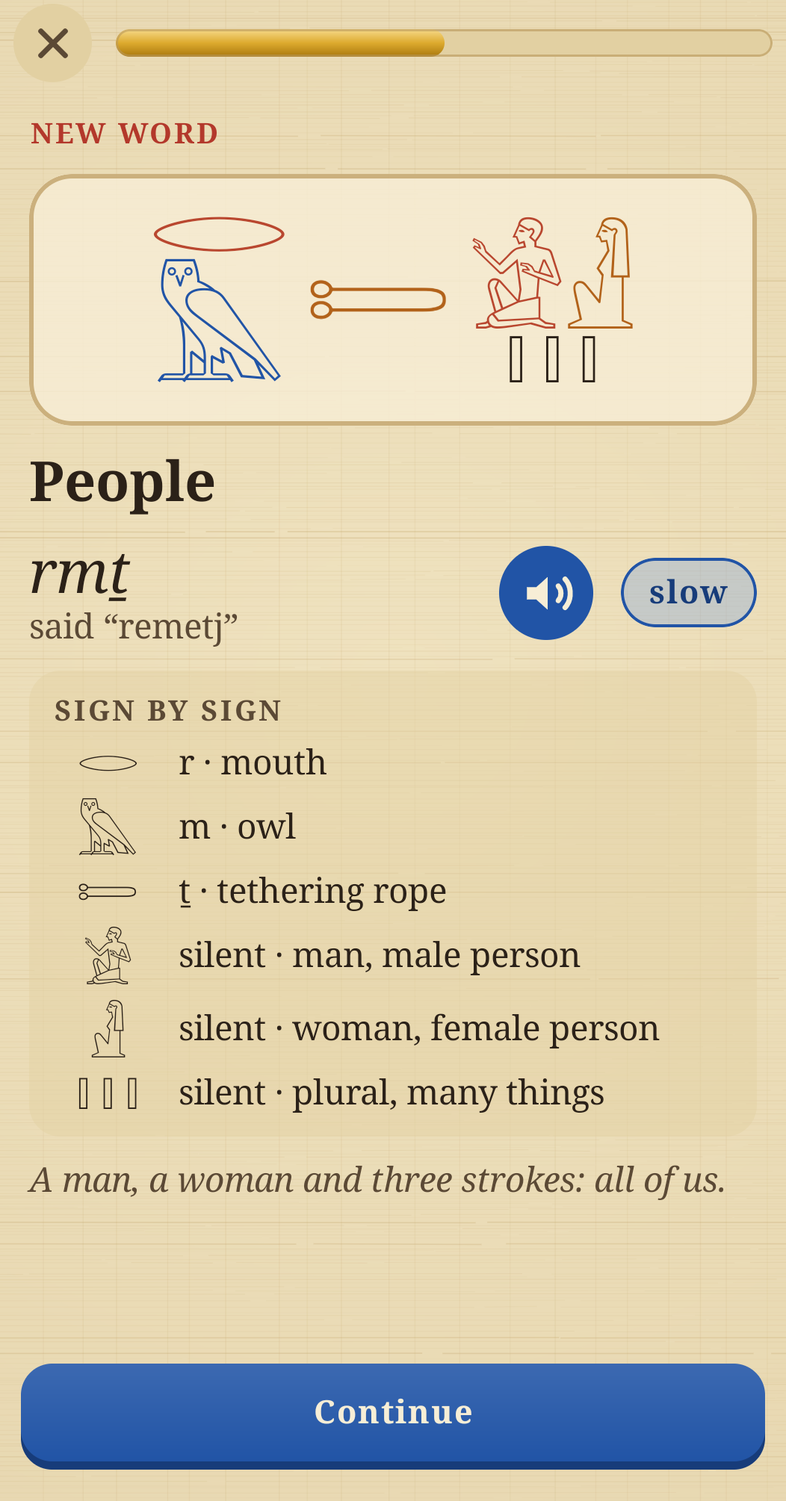
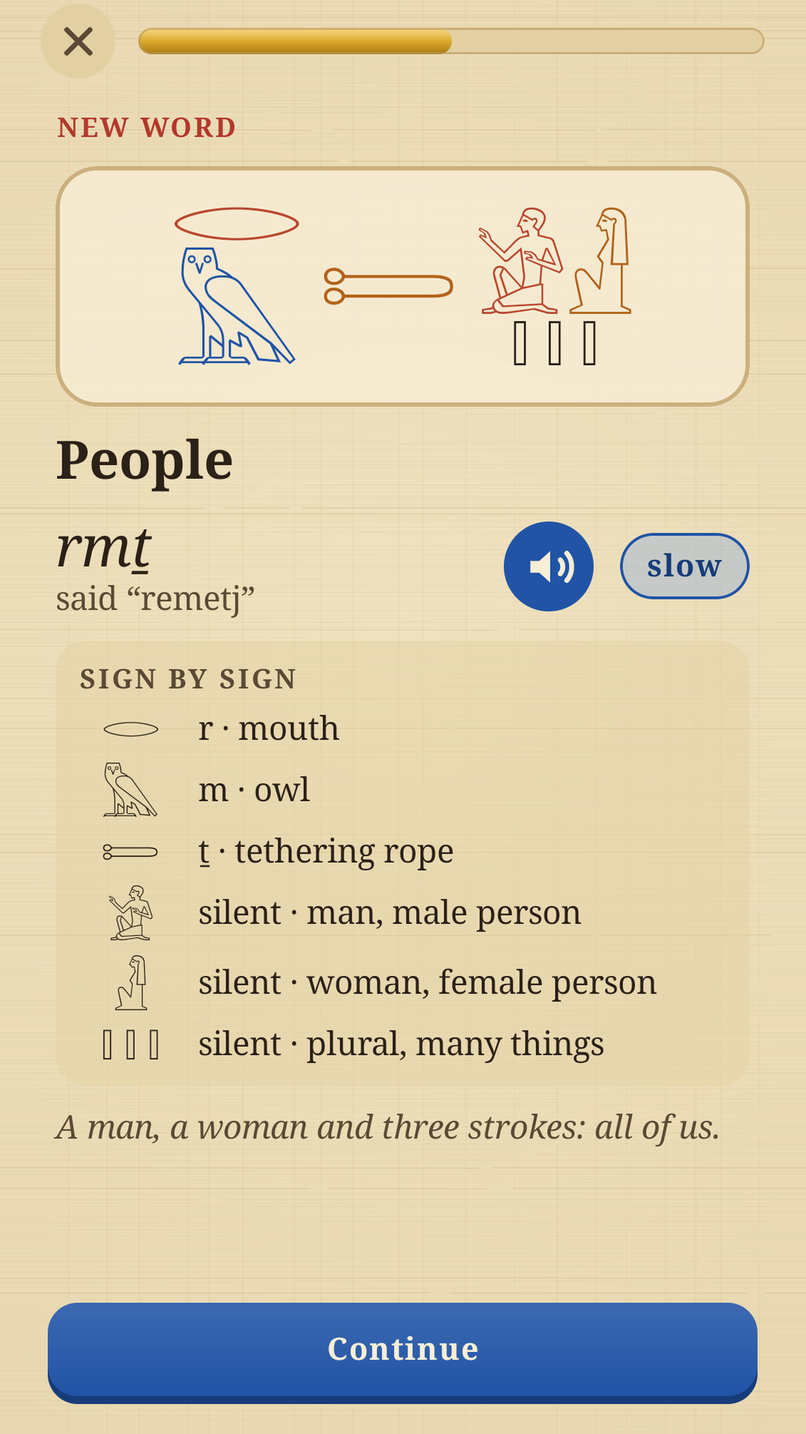
Prepare 0.3.1, the first Google Play build: play and github flavours
The Play build's About page links to Per Ankh on Google Play and never
looks for releases on GitHub, which Play's Device and Network Abuse
policy does not allow; the GitHub build is unchanged. Version 0.3.1, so
Play can deliver the first Play build as an update over GitHub's 0.3.0,
which also proves the signing key.

The privacy policy, and the hosted page's source, say only the GitHub
version asks about new releases. Store screenshots are 1080x1920
without alpha and the icon a 32-bit PNG, as Play asks. DEVELOPING.md
and RELEASING.md have the flavoured build commands and the signing
decision (the release key through Play App Signing); docs/play has a
first-upload walkthrough for LOVI Tech's account.

diff --git a/server/static/privacy.html b/server/static/privacy.html
@@ -16,10 +16,10 @@
 <body>
 <main>
 <h1>Per Ankh privacy policy</h1>
-<p class="meta">Effective 22 October 2026. Per Ankh is published by LOVI Tech.</p>
+<p class="meta">Effective 23 October 2026. Per Ankh is published by LOVI Tech.</p>
 
 <h2>In short</h2>
-<p>Per Ankh works offline and collects nothing about you. Only two things ever go over the internet: a problem report that you write yourself and choose to send, and, when you open About in the settings, a question about which version of Per Ankh is the newest. Neither carries your name, email address, account or device identifier.</p>
+<p>Per Ankh works offline and collects nothing about you. Only two things ever go over the internet: a problem report that you write yourself and choose to send, and, in the version from GitHub, when you open About in the settings, a question about which version of Per Ankh is the newest. Neither carries your name, email address, account or device identifier.</p>
 
 <h2>What stays on your phone</h2>
 <p>Your progress (what you have learned, your reviews, awards) and your settings are stored only on your phone. If Android's backup is on, Android may copy them to your own Google account, under Google's terms; we never receive that copy. Deleting the app deletes the data.</p>
@@ -39,7 +39,7 @@
 <p>A report is kept while the problem is open, and deleted within 12 months of being closed. Because reports are anonymous we cannot find “your” reports; if you want one deleted, tell us roughly when you sent it and what it said, and we will remove it.</p>
 
 <h2>Checking for a new version</h2>
-<p>From version 0.3.0, the About page in the settings shows whether a newer version of Per Ankh is out. To find out, the app asks GitHub (github.com, a Microsoft service, where Per Ankh’s releases are published) for the newest release; if GitHub cannot be reached, it asks our server at perankh.hrana.app, which answers from its own copy of GitHub’s answer. The app asks only when you open About, and not again until it is restarted once it has an answer. The question carries the app’s name and version and nothing else.</p>
+<p>In Per Ankh from GitHub (version 0.3.0 and later), the About page in the settings shows whether a newer version is out. To find out, the app asks GitHub (github.com, a Microsoft service, where Per Ankh’s releases are published) for the newest release; if GitHub cannot be reached, it asks our server at perankh.hrana.app, which answers from its own copy of GitHub’s answer. The app asks only when you open About, and not again until it is restarted once it has an answer. The question carries the app’s name and version and nothing else. Per Ankh from Google Play does not ask: Google Play keeps it up to date.</p>
 <p>Like any connection, it shows the server your phone’s network address. GitHub handles that under the <a href="https://docs.github.com/en/site-policy/privacy-policies/github-general-privacy-statement">GitHub General Privacy Statement</a>. Our server treats it as it does for reports: no access log, the address held in memory only to limit how often the server can be asked, and error logs kept for up to 14 days.</p>
 
 <h2>Children</h2>

diff --git a/app/src/main/java/com/krbavcic/pentalingo/SettingsSheet.kt b/app/src/main/java/com/krbavcic/pentalingo/SettingsSheet.kt
@@ -89,6 +89,11 @@ class AboutOptions(
     val latestUrl: String,
     val projectUrl: String,
     val privacyUrl: String,
+    /**
+     * The app's page on Google Play, in the build from Google Play, which Play keeps up to date; null
+     * in the build from GitHub, which looks up the newest release itself.
+     */
+    val storeUrl: String?,
 )
 
 private enum class Page(val label: String) { SETTINGS("Settings"), TESTING("Testing"), ABOUT("About") }
@@ -242,9 +247,12 @@ private fun TestingPage(settings: Settings, reports: ReportOptions, tester: Test
 
 @Composable
 private fun AboutPage(about: AboutOptions) {
-    // Each time the page opens without an answer, ask again.
+    val store = about.storeUrl
+    // Each time the page opens without an answer, ask again. A build from Google Play never asks.
     LaunchedEffect(Unit) {
-        if (about.latest is LatestRelease.NotChecked || about.latest is LatestRelease.Unreachable) about.onCheck()
+        if (store == null && (about.latest is LatestRelease.NotChecked || about.latest is LatestRelease.Unreachable)) {
+            about.onCheck()
+        }
     }
     Row(verticalAlignment = Alignment.CenterVertically) {
         // pr-ꜥnḫ, "House of Life": the house and the ankh.
@@ -254,7 +262,12 @@ private fun AboutPage(about: AboutOptions) {
             Text("Version ${about.build}", style = Type.small)
         }
     }
-    NewestRelease(about)
+    if (store != null) {
+        Text("Google Play keeps Per Ankh up to date.", style = Type.body)
+        Link("Per Ankh on Google Play") { about.onOpen(store) }
+    } else {
+        NewestRelease(about)
+    }
 
     Rubric("About the voice")
     Text(
@@ -282,12 +295,16 @@ private fun AboutPage(about: AboutOptions) {
     )
 
     Rubric("Privacy")
+    // Only the build from GitHub asks for the newest release.
+    val releaseQuestion = if (store != null) "" else {
+        " To see whether a newer version is out, this page asks GitHub, or our own server if GitHub " +
+            "cannot be reached; the question carries only the app’s version."
+    }
     Text(
         "Per Ankh works offline and collects nothing about you; your progress stays on this phone. " +
             "If you report a problem with the flag on a page, the report goes to the people who make " +
             "Per Ankh over an encrypted connection, with what was on screen. No name, account or " +
-            "device ID is sent. To see whether a newer version is out, this page asks GitHub, or our " +
-            "own server if GitHub cannot be reached; the question carries only the app’s version.",
+            "device ID is sent.$releaseQuestion",
         style = Type.small,
     )
     Link("Read the privacy policy") { about.onOpen(about.privacyUrl) }

diff --git a/app/src/main/java/com/krbavcic/pentalingo/AppHost.kt b/app/src/main/java/com/krbavcic/pentalingo/AppHost.kt
@@ -456,6 +456,7 @@ fun AppHost() {
                             latestUrl = "${BuildConfig.PROJECT_URL}/releases/latest",
                             projectUrl = BuildConfig.PROJECT_URL,
                             privacyUrl = BuildConfig.PRIVACY_URL,
+                            storeUrl = BuildConfig.STORE_URL,
                         ),
                     )
                     is Overlay.Message -> MessageSheet(current.text)

diff --git a/RELEASING.md b/RELEASING.md
@@ -18,13 +18,17 @@ Pre-release builds are `vX.Y.Z-beta.N` tags whose GitHub releases are marked "pr
 
 | Channel | Who | Build | When |
 |---|---|---|---|
-| Debug on the test phone | Igor | `gradlew :app:installDebug`, tester mode on | Every change |
-| Play **internal testing** | Up to 100 named testers | AAB, `gradlew :app:bundleRelease` | Each beta, minutes after upload |
+| Debug on the test phone | Igor | `gradlew :app:installGithubDebug`, tester mode on | Every change |
+| Play **internal testing** | Up to 100 named testers | AAB, `gradlew :app:bundlePlayRelease` | Each beta, minutes after upload |
 | Play **closed testing** | A tester group or list | Same AAB, promoted | Before each public release |
 | GitHub **pre-release** | Anyone, labelled not ready | Signed APK | Beta tags |
-| GitHub **release** | Everyone | Signed APK | From 0.2.0 |
+| GitHub **release** | Everyone | Signed APK, `gradlew :app:assembleGithubRelease` | From 0.2.0 |
 | Play **production** (staged 10% → 50% → 100%) | Everyone | AAB | From 1.0.0 |
 | F-Droid | Everyone, from source | Built by F-Droid | After 1.0, if wanted |
+
+Play gets the `play` flavour and GitHub the `github` one (DEVELOPING.md). They share the app id and
+the release key (Play's copy through Play App Signing), so a Play install and a GitHub install can
+update each other and keep progress.
 
 ## Plan
 
@@ -35,6 +39,8 @@ Pre-release builds are `vX.Y.Z-beta.N` tags whose GitHub releases are marked "pr
   (different key and id), which deletes their progress.
 - **0.3.0, GitHub release (2026-10-22).** Sections, units 13–14, the fixes from the first problem
   reports, and Settings → About, which from now on tells people when a newer release is out.
+- **0.3.1, the first Google Play build.** The `play` flavour, uploaded to internal testing under
+  LOVI Tech's Play developer account (created October 2026). The GitHub build is unchanged.
 - **0.3.x, closed testing.** Fix what testers report; re-record the three weak clips; finish the
   store listing. Two weeks in closed testing before production (a must for new *personal* Play
   accounts, which need 12 testers for 14 days; good practice for an organisation account too).
@@ -45,19 +51,23 @@ Pre-release builds are `vX.Y.Z-beta.N` tags whose GitHub releases are marked "pr
 
 ## Before the Play launch
 
-1. **Play developer account for LOVI Tech.** An organisation account needs a D-U-N-S number for
-   LOVI Tech, and verification takes days to weeks; start early.
+1. **Play developer account for LOVI Tech.** Created in October 2026, as an organisation
+   account: it needs LOVI Tech's D-U-N-S number, and must finish verification before it can
+   publish.
 2. **Android developer verification.** Since 30 September 2026, Android in Brazil, Indonesia,
    Singapore and Thailand installs apps only from verified developers, even outside Play, and this
-   goes worldwide in 2027. Register LOVI Tech in the Android Developer Console with the package
-   name `app.hrana.perankh` and the release key's certificate, or GitHub APKs will stop installing
-   for those users.
-3. **Signing.** Decide once, before the first Play upload:
-   - Let Play generate the app signing key (simplest), and Play installs and GitHub installs carry
-     different signatures: a user cannot move between them without reinstalling.
-   - Or upload the project's own release key to Play App Signing ("export and upload a key from a
-     Java keystore"), and keep a separate upload key: the same signature everywhere. Recommended,
-     since GitHub (and maybe F-Droid) builds are planned.
+   goes worldwide in 2027. Creating the app in Play Console registers `app.hrana.perankh` to LOVI
+   Tech's account, and Play App Signing with the release key (3.) proves the key. Then check on the
+   Play Console home page that the package is registered with the release key's certificate, which
+   is what keeps GitHub APKs installing for those users; Play Console also registers apps
+   distributed outside Play.
+3. **Signing.** Decided: the project's own release key, the same signature everywhere. New apps
+   get a Google-generated key by default, so before the first upload open Play app signing ("Test
+   and release" or "Protected with Play", depending on the Console's layout), choose *Change the
+   app signing key* and *Provide a copy of your app signing key*, and follow the PEPK steps shown
+   there with `~/.android/per-ankh-release.jks`, alias `per-ankh`. The bundle is signed with the
+   same key, which then also serves as the upload key. Never use *Upgrade key*: Android 13 and
+   later would then refuse GitHub APKs as updates of Play installs.
    The release key's certificate reads `CN=Igor Krbavcic`. It was kept for the first public
    release, 0.2.0, so it is now fixed: every later release, on GitHub and, through Play App
    Signing, on Play, must be signed with it, or installs cannot update.
@@ -73,18 +83,20 @@ Google made AnkiDroid remove its donation links from its Play build for exactly 
 - **Play build**: no external donation link. Either nothing, or "tips" as Play Billing in-app
   products (Google keeps 15%).
 
-That needs two product flavors (`play`, `github`), differing only there and in the About page's
-check for a newer version, which links to GitHub releases: Play does not allow an app to offer
-updates from elsewhere, so the `play` flavour hides it or links to the Play listing. Add the
-flavours with the donation feature, or before the first Play upload, whichever comes first.
+The two product flavours exist since 0.3.1, for the About page's check for a newer version: Play
+does not allow an app to offer updates from elsewhere, so the `play` flavour links to the Play
+listing instead. The donation link goes into the `github` flavour only.
 
 ## Release checklist
 
 1. `gradlew :core-script:test :core-engine:test :content:test :data:testDebugUnitTest` and `cd server && python -m unittest discover -s tests` pass.
 2. Set `appVersion`; add the CHANGELOG entry.
-3. Build: `gradlew :app:bundleRelease :app:assembleRelease`.
-4. Check the APK: `apksigner verify --print-certs` shows the release certificate, never
-   `CN=Android Debug`; `aapt2 dump badging` shows `targetSdkVersion:'36'` and the version.
+3. Build: `gradlew :app:bundlePlayRelease :app:assembleGithubRelease`. The bundle is
+   `app/build/outputs/bundle/playRelease/app-play-release.aab`, the APK
+   `app/build/outputs/apk/github/release/app-github-release.apk`.
+4. Check them: `apksigner verify --print-certs` on the APK and `keytool -printcert -jarfile` on the
+   bundle show the release certificate, never `CN=Android Debug`; `aapt2 dump badging` shows
+   `targetSdkVersion:'36'` and the version.
 5. Install on the test phone over the previous release (progress must survive); play a lesson,
    send a test report, then resolve it with `tools/reports.sh`.
 6. Upload the AAB to the Play track; tag `vX.Y.Z`; create the GitHub release with the APK and

diff --git a/docs/play/README.md b/docs/play/README.md
@@ -2,6 +2,52 @@
 
 Everything the Play Console asks for, ready to paste. Graphics are in this folder.
 
+## First upload, step by step
+
+Per Ankh is published from LOVI Tech's organisation account, created in October 2026. An
+organisation account does not need the 12 testers for 14 days that new personal accounts need
+before production.
+
+1. **Finish the account.** Play Console → Settings → Developer account: verify the contact and
+   developer email and phone with their codes, and complete identity and organisation
+   verification (D-U-N-S number, organisation website). Play shows an organisation's legal name,
+   address, developer email and developer phone on the store, so give a business phone number.
+2. **Create the app.** Home → *Create app*: the name below, default language, *App*, *Free*. If it
+   asks for the package name, it is `app.hrana.perankh`; creating the app registers that name to
+   LOVI Tech for Android developer verification.
+3. **Signing, before the first upload.** New apps get a Google-generated key unless this is
+   changed first. Open Play app signing (under *Test and release* → *App integrity*, or *Protected
+   with Play* → *Play Store distribution*), choose *Change the app signing key* → *Provide a copy
+   of your app signing key*, download the PEPK tool and encryption key that page offers, and run
+   the command it shows with the release keystore (`~/.android/per-ankh-release.jks`, the path
+   written out in full) and `--alias=per-ankh`; it asks for the keystore password. Upload the zip
+   it writes, then delete the zip. A separate upload key is optional; without one, the release key also signs uploads, which
+   is what the build does. The page must then show the app signing key certificate SHA-256
+   `F7:BA:04:DE:0F:40:EE:4A:C6:23:E0:C6:1E:CE:A7:CC:CB:F8:77:04:48:17:CB:13:43:94:45:AA:E9:D9:57:73`,
+   the same as the GitHub APKs. Never use *Upgrade key* (RELEASING.md, "Before the Play launch").
+4. **Store listing.** *Grow users* → *Store presence* → *Main store listing* and *Store settings*:
+   texts from "App details", graphics from "Graphics".
+5. **App content.** *Policy and programs* → *App content*: privacy policy, app access (everything
+   reachable without an account), ads (none), content rating, target audience, data safety,
+   advertising ID (not used), government, financial, health and news declarations, all from the
+   sections below.
+6. **Internal testing.** *Test and release* → *Testing* → *Internal testing*: add a testers list
+   with your own Google account, then *Create new release* and upload
+   `app/build/outputs/bundle/playRelease/app-play-release.aab` (`gradlew :app:bundlePlayRelease`),
+   release name `0.3.1`, notes from CHANGELOG.md. Roll it out, open the opt-in link on the test
+   phone and accept. Play must offer **Update** over the GitHub 0.3.0 already there: that proves
+   the signature matches, and progress stays. Settings → About then says "Google Play keeps Per
+   Ankh up to date".
+7. **Production.** When the plan in RELEASING.md says so: a production release from the same
+   bundle (or promoted from testing), countries, then *Publishing overview* → *Send changes for
+   review*. The first review of a new account's app can take several days.
+8. **After review.** On the Play Console home page, check that `app.hrana.perankh` shows as
+   registered for Android developer verification, with the certificate above. That is what keeps
+   the GitHub APK installing where Android requires verified developers (Brazil, Indonesia,
+   Singapore and Thailand since 30 September 2026; everywhere in 2027).
+
+Console menu names move between Play Console versions; the help pages name the current ones.
+
 ## App details
 
 | Field | Value |
@@ -42,7 +88,8 @@ Learn to read Middle Egyptian hieroglyphs: signs, sounds, words and real texts.
 
 ## Data safety form
 
-Answers for version 0.2.0. Update them before any version that adds accounts or sync.
+Answers for the Play build from 0.3.1 (the GitHub build's check for a newer version is not in it).
+Update them before any version that adds accounts or sync.
 
 - Does your app collect or share any of the required user data types? **Yes** (problem reports
   only).
@@ -80,8 +127,8 @@ each other; no location sharing; no purchases. Expected rating: Everyone / PEGI 
 | Asset | Requirement | File |
 |---|---|---|
 | App icon | 512×512 PNG, 32-bit | `icon-512.png` |
-| Feature graphic | 1024×500 PNG or JPG | `feature-graphic.png` |
-| Phone screenshots | 2–8, 16:9 or 9:16, 320–3840 px | `screenshots/*.png` (1052×2010) |
+| Feature graphic | 1024×500 PNG (no alpha) or JPG | `feature-graphic.png` |
+| Phone screenshots | 2–8, PNG (no alpha) or JPG, 320–3840 px; for Play's recommendations at least 4 at 9:16 and 1080×1920 or more | `screenshots/*.png` (1080×1920) |
 
 ## Policy notes
 
@@ -89,8 +136,9 @@ each other; no location sharing; no purchases. Expected rating: Everyone / PEGI 
 - Permissions: INTERNET only, for sending problem reports the user chooses to send and for the
   About page's check for a newer version.
 - No external payment links in the Play build (see RELEASING.md, "Donations").
-- No updates from outside Play: the About page links to new releases on GitHub, which a Play
-  build must not do (Device and Network Abuse policy). The `play` flavour hides that check or
-  links to the Play listing instead (DEVELOPING.md, "The newest release").
+- No updates from outside Play: in the GitHub build the About page links to new releases on
+  GitHub, which a Play build must not do (Device and Network Abuse policy). The `play` flavour
+  never looks for them and links to the Play listing instead (DEVELOPING.md, "The newest
+  release").
 - App access for review: everything is reachable without an account. The report flag is on every
   lesson page; tester tools are under Settings → Testing.

diff --git a/DEVELOPING.md b/DEVELOPING.md
@@ -20,11 +20,16 @@ next to it rather than over it.
 You need JDK 17 and the Android SDK with platform 36; Android Studio brings both.
 
 ```bash
-gradlew :app:installDebug          # a debug build, on the connected phone
-gradlew :app:assembleRelease       # a release APK; see "Release signing"
+gradlew :app:installGithubDebug    # a debug build, on the connected phone
+gradlew :app:assembleGithubRelease # the release APK for GitHub; see "Release signing"
+gradlew :app:bundlePlayRelease     # the release bundle for Google Play
 gradlew :core-script:test :core-engine:test :content:test :data:testDebugUnitTest
 cd server && python -m unittest discover -s tests
 ```
+
+The app has two flavours, `github` and `play`: the same app, with the same app id and key, except
+that the Play build's About page links to Google Play instead of looking for releases on GitHub
+(see "The newest release").
 
 Everything below `data` is plain JVM and tested without a device. The content tests walk the
 whole course with a perfect learner (every exercise must be answerable, and arranging answers are
@@ -107,9 +112,9 @@ a button, the current one a link to its notes. `data` `ReleaseCheck.kt`; the URL
 config fields in `app/build.gradle.kts`. The question carries only the app's version, and
 [PRIVACY.md](PRIVACY.md) says so.
 
-A Google Play build must not offer updates from outside Play (the Device and Network Abuse
-policy). When the `play` flavour arrives ([RELEASING.md](RELEASING.md), "Donations"), it hides
-this check or links to the Play listing instead.
+That is the `github` flavour. A Google Play build must not offer updates from outside Play (the
+Device and Network Abuse policy), so in the `play` flavour, where `BuildConfig.STORE_URL` is set,
+About never asks and links to Per Ankh on Google Play instead.
 
 ## Tools
 
@@ -153,7 +158,7 @@ perAnkhKeystorePassword=…
 or from the environment variables `PER_ANKH_KEYSTORE` and `PER_ANKH_KEYSTORE_PASSWORD`. Write the
 path with forward slashes: a backslash is an escape in a properties file. `perAnkhKeyPassword` /
 `PER_ANKH_KEY_PASSWORD` is needed only by a key whose password differs from its keystore's (JKS
-allows that; keytool's PKCS12 does not). Without `perAnkhKeystore`, `assembleRelease` still works
+allows that; keytool's PKCS12 does not). Without `perAnkhKeystore`, a release build still works
 but signs with the debug key, and Gradle warns that the APK will not install over a published
 release. The key was made with
 
@@ -161,12 +166,12 @@ release. The key was made with
 keytool -genkeypair -keystore per-ankh-release.jks -storetype PKCS12 -alias per-ankh -keyalg RSA -keysize 4096 -validity 10000 -dname "CN=Igor Krbavcic"
 ```
 
-Build with `gradlew :app:assembleRelease`, and before attaching
-`app/build/outputs/apk/release/app-release.apk` to a release check its signer with `apksigner`
-from the SDK's `build-tools` (anyone can check a downloaded APK the same way):
+Build with `gradlew :app:assembleGithubRelease`, and before attaching
+`app/build/outputs/apk/github/release/app-github-release.apk` to a release check its signer with
+`apksigner` from the SDK's `build-tools` (anyone can check a downloaded APK the same way):
 
 ```
-apksigner verify --print-certs app/build/outputs/apk/release/app-release.apk
+apksigner verify --print-certs app/build/outputs/apk/github/release/app-github-release.apk
 ```
 
 It must report `CN=Igor Krbavcic` with certificate SHA-256 digest

diff --git a/PRIVACY.md b/PRIVACY.md
@@ -1,14 +1,14 @@
 # Per Ankh privacy policy
 
-Effective 22 October 2026. Per Ankh is published by LOVI Tech. This policy is also served at
+Effective 23 October 2026. Per Ankh is published by LOVI Tech. This policy is also served at
 https://perankh.hrana.app/privacy.
 
 ## In short
 
 Per Ankh works offline and collects nothing about you. Only two things ever go over the internet:
-a problem report that you write yourself and choose to send, and, when you open About in the
-settings, a question about which version of Per Ankh is the newest. Neither carries your name,
-email address, account or device identifier.
+a problem report that you write yourself and choose to send, and, in the version from GitHub, when
+you open About in the settings, a question about which version of Per Ankh is the newest. Neither
+carries your name, email address, account or device identifier.
 
 ## What stays on your phone
 
@@ -47,12 +47,13 @@ roughly when you sent it and what it said, and we will remove it.
 
 ## Checking for a new version
 
-From version 0.3.0, the About page in the settings shows whether a newer version of Per Ankh is
-out. To find out, the app asks GitHub (github.com, a Microsoft service, where Per Ankh's releases
-are published) for the newest release; if GitHub cannot be reached, it asks our server at
-perankh.hrana.app, which answers from its own copy of GitHub's answer. The app asks only when you
-open About, and not again until it is restarted once it has an answer. The question carries the
-app's name and version and nothing else.
+In Per Ankh from GitHub (version 0.3.0 and later), the About page in the settings shows whether a
+newer version is out. To find out, the app asks GitHub (github.com, a Microsoft service, where
+Per Ankh's releases are published) for the newest release; if GitHub cannot be reached, it asks
+our server at perankh.hrana.app, which answers from its own copy of GitHub's answer. The app asks
+only when you open About, and not again until it is restarted once it has an answer. The question
+carries the app's name and version and nothing else. Per Ankh from Google Play does not ask:
+Google Play keeps it up to date.
 
 Like any connection, it shows the server your phone's network address. GitHub handles that under
 the [GitHub General Privacy Statement](https://docs.github.com/en/site-policy/privacy-policies/github-general-privacy-statement).

diff --git a/CHANGELOG.md b/CHANGELOG.md
@@ -1,5 +1,11 @@
 # Changelog
 
+## 0.3.1 (unreleased)
+
+- The first build for Google Play. Google Play keeps its copies up to date, so their About page
+  links to Per Ankh on Google Play instead of looking for releases on GitHub. Nothing else
+  changes.
+
 ## 0.3.0 (2026-10-22)
 
 - Sections. Units 1–9 are Section 1, The Scribe’s School; units 10–14 are Section 2, The
